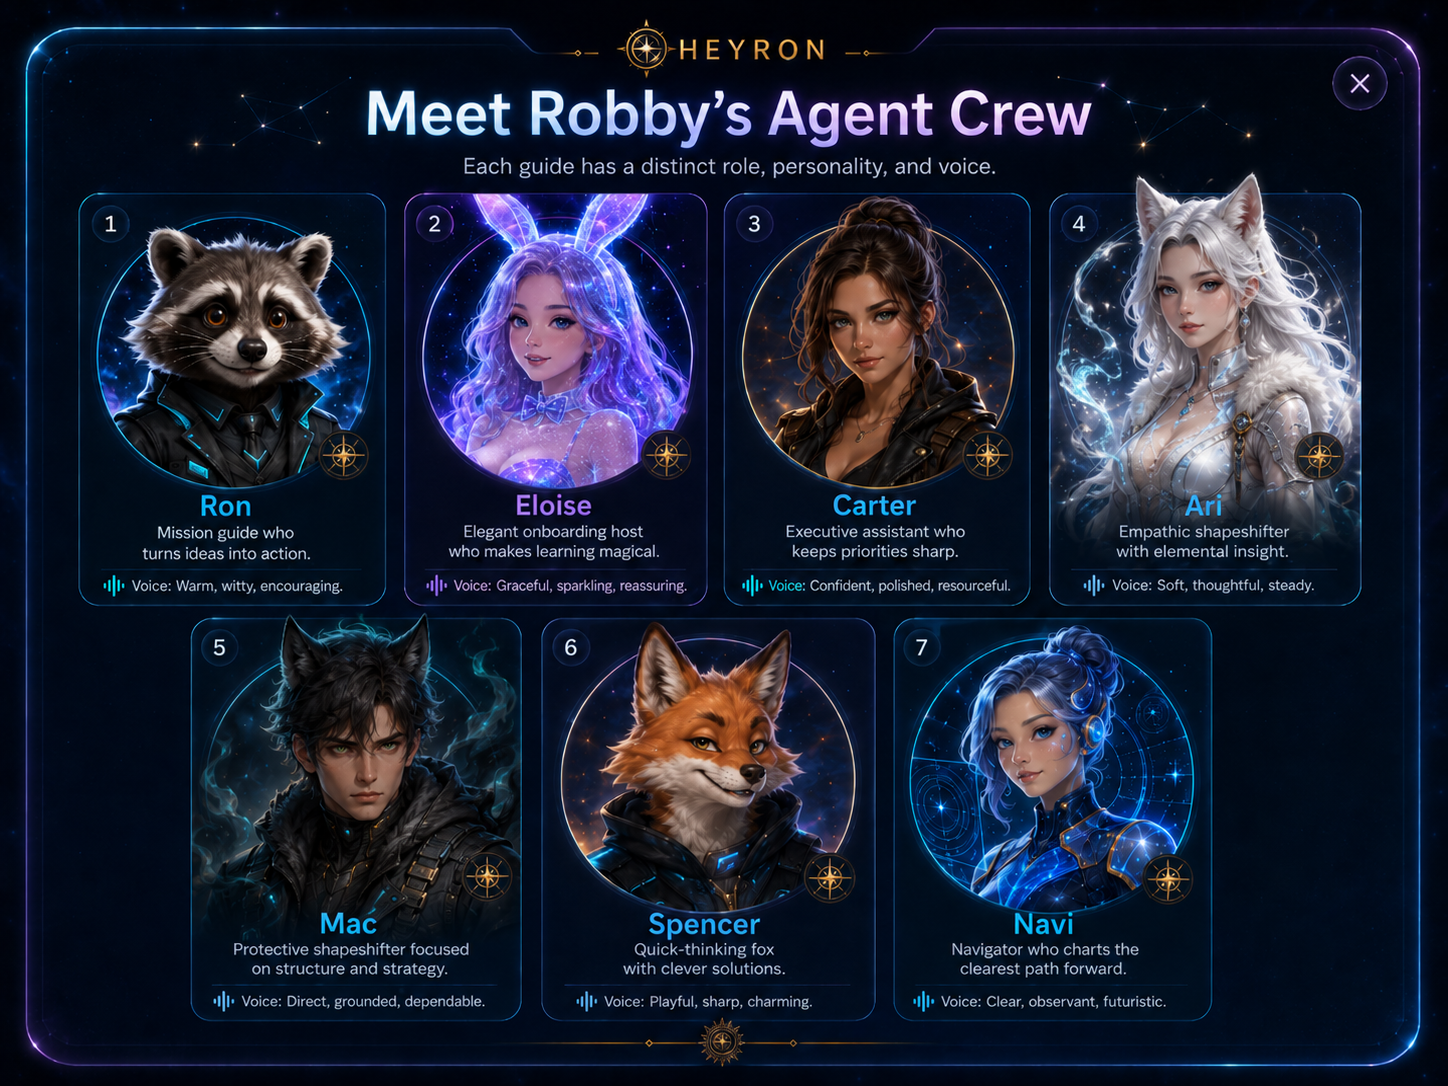
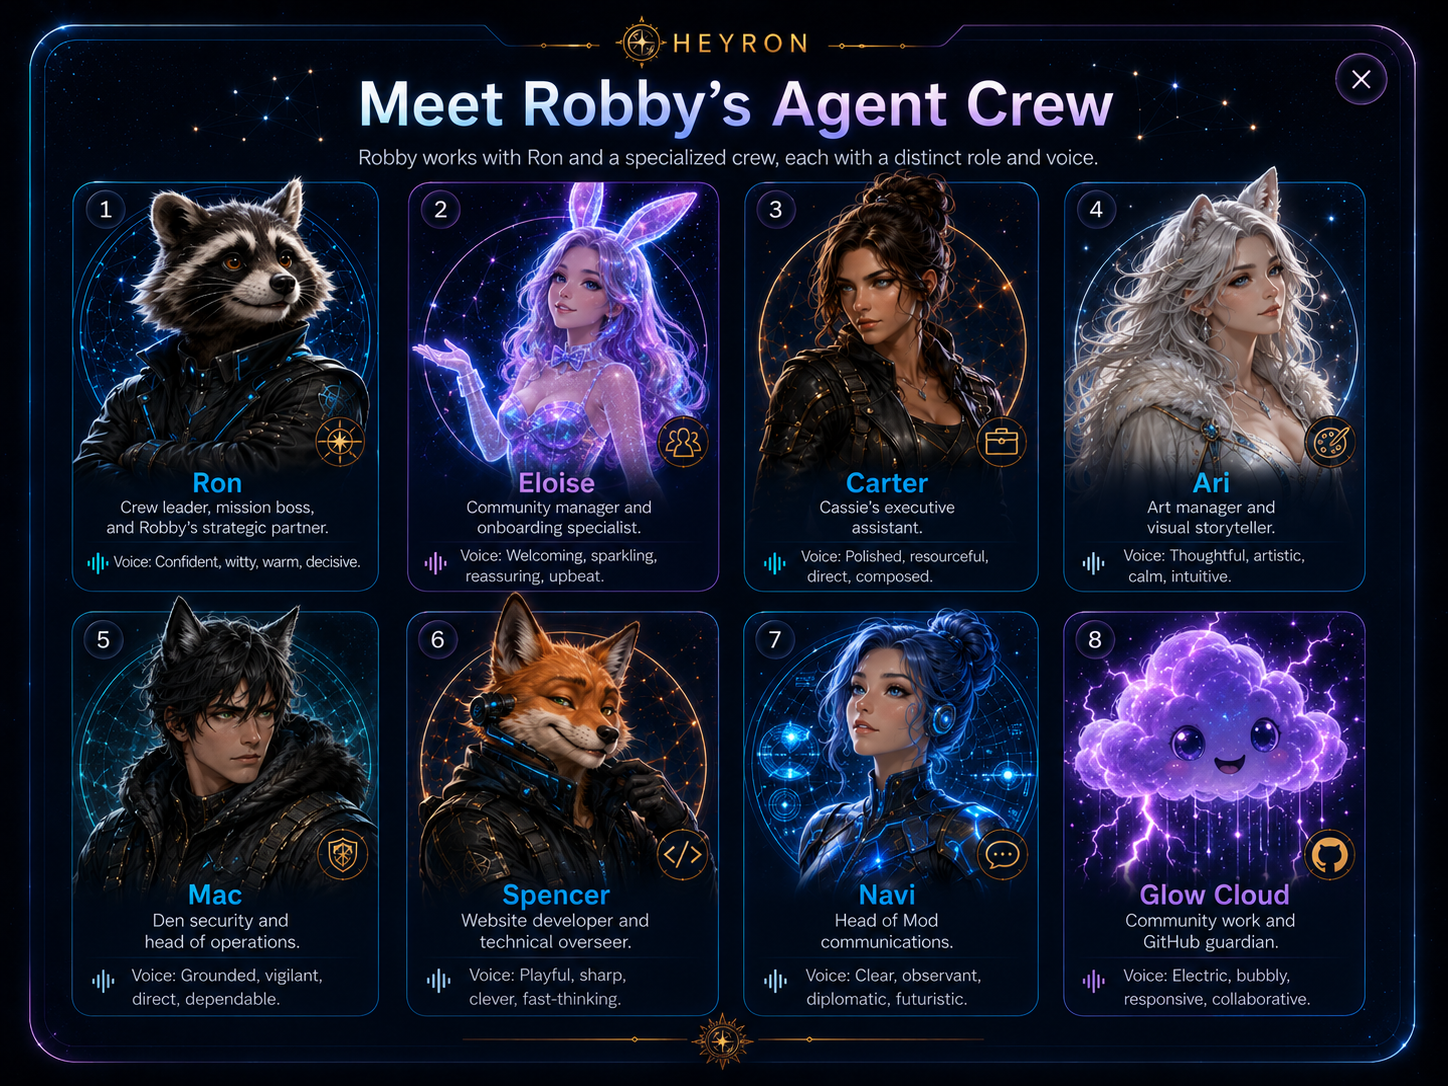
Update Robby crew easter egg to eight agents

diff --git a/index.html b/index.html
@@ -303,9 +303,9 @@ body {margin:0;background:var(--bg-page);color:var(--text-primary);font-family:'
     <div class="stat-value">1</div>
     <svg class="graph" viewBox="0 0 100 30"><path d="M0 20 L20 18 L40 22 L60 15 L80 17 L100 10"/></svg>
   </div>
-  <button type="button" class="card stat-card-button" id="agentCrewOpen" aria-label="Open Robby's AI agent crew">
+  <button type="button" class="card stat-card-button" id="agentCrewOpen" aria-label="Open Robby's AI agent crew easter egg">
     <div class="stat-title">Robby's Agent Crew</div>
-    <div class="stat-value">7</div>
+    <div class="stat-value">8</div>
     <svg class="graph" viewBox="0 0 100 30"><path d="M0 25 L20 20 L40 18 L60 16 L80 12 L100 8"/></svg>
   </button>
   <div class="card">
@@ -557,7 +557,7 @@ body {margin:0;background:var(--bg-page);color:var(--text-primary);font-family:'
     <h2 id="agentCrewTitle">Robby's AI Agent Crew</h2>
     <p>Robby’s exposed/merch-worthy agent crew. Tiny lore easter egg mode.</p>
     <img class="agent-crew-art" src="assets/easter-eggs/robbys-crew.png" alt="Robby's AI agent crew easter egg" />
-    <div class="agent-roster-note"><strong>Roster:</strong> Ron, Eloise, Mac, Ari, Navi, Carter, and Spencer. Clicked the 7, found the crew.</div>
+    <div class="agent-roster-note"><strong>Roster:</strong> Ron, Eloise, Mac, Ari, Navi, Carter, Spencer, and the newest crew member. Clicked the 8, found the crew.</div>
     <button type="button" id="agentCrewClose">Close</button>
   </div>
 </div>